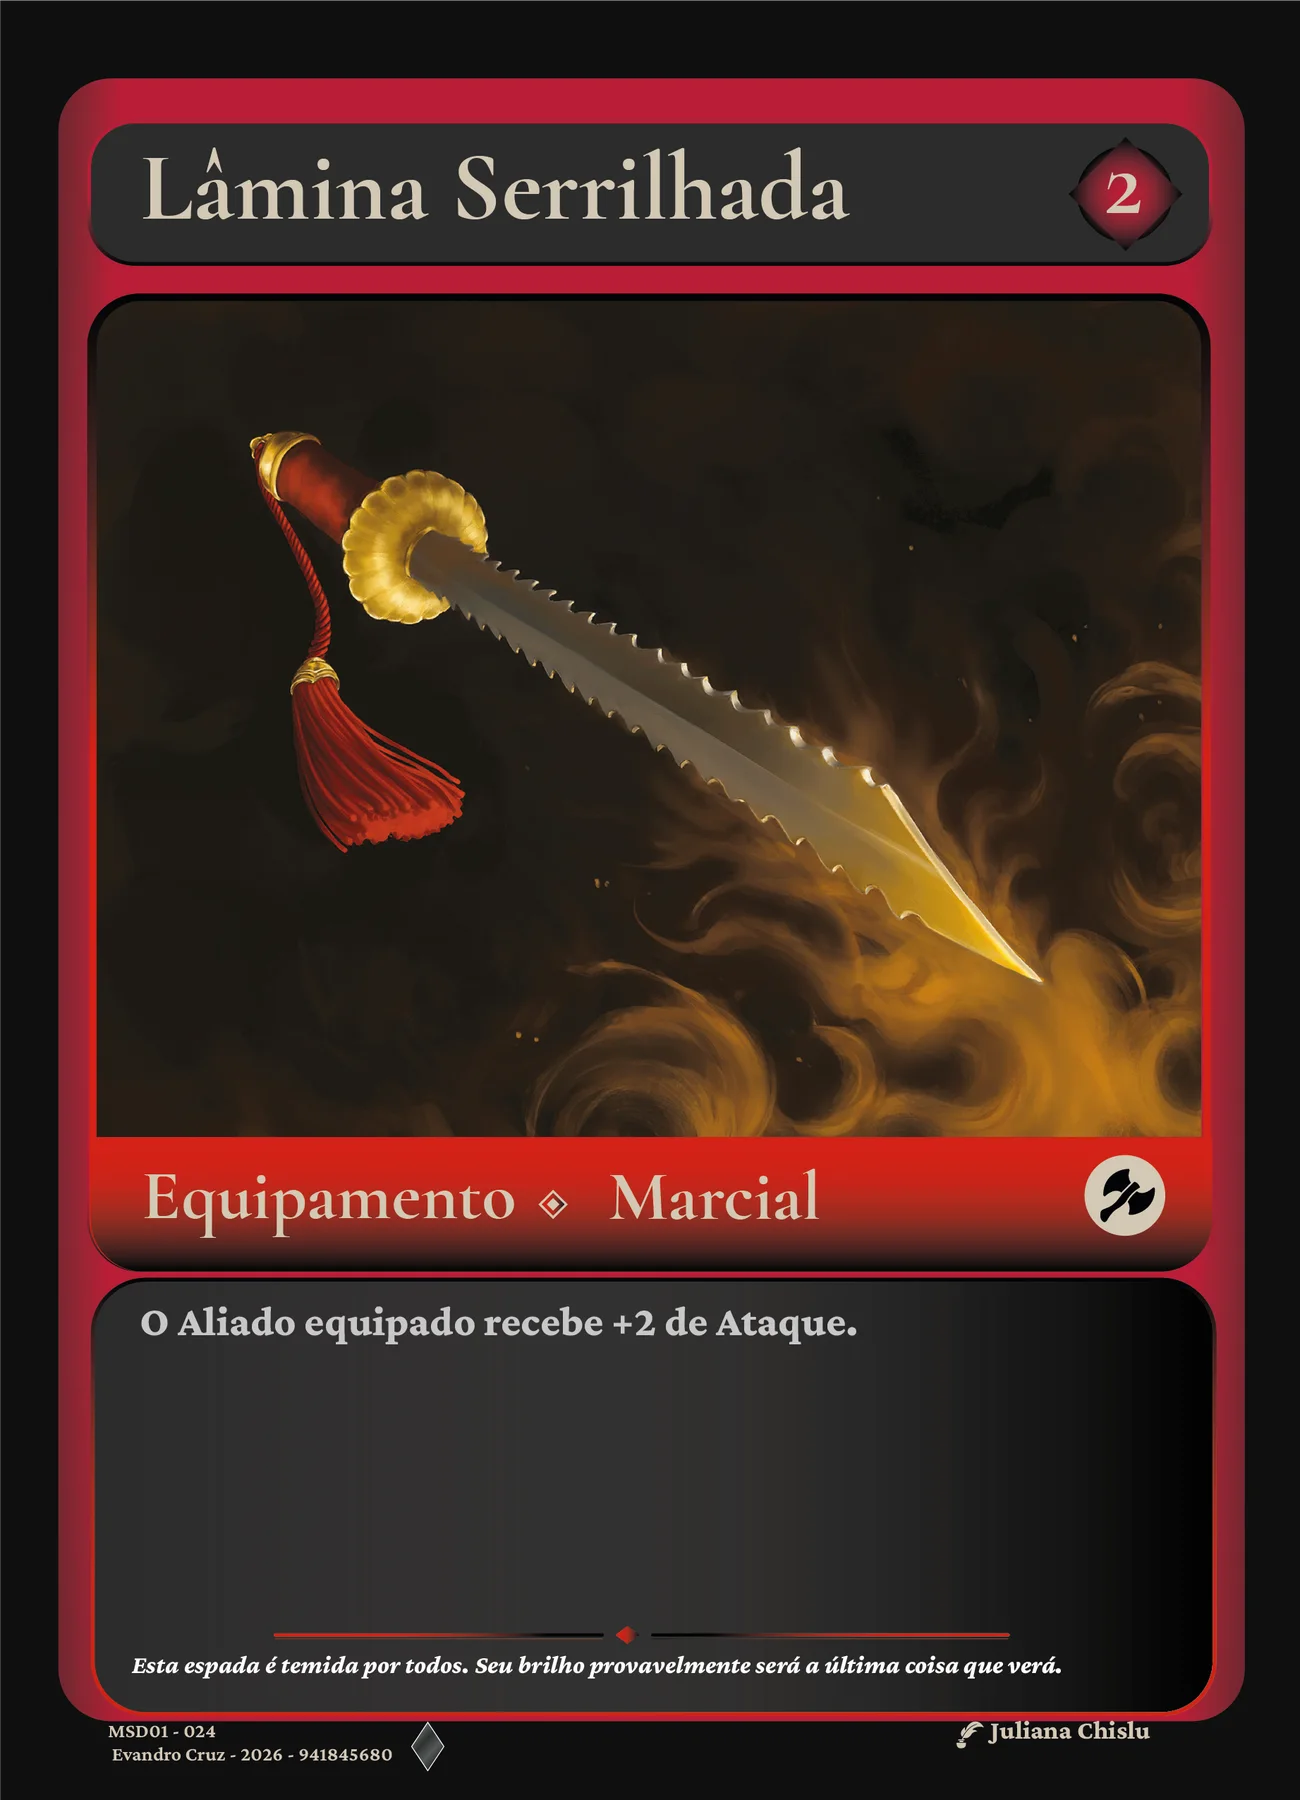
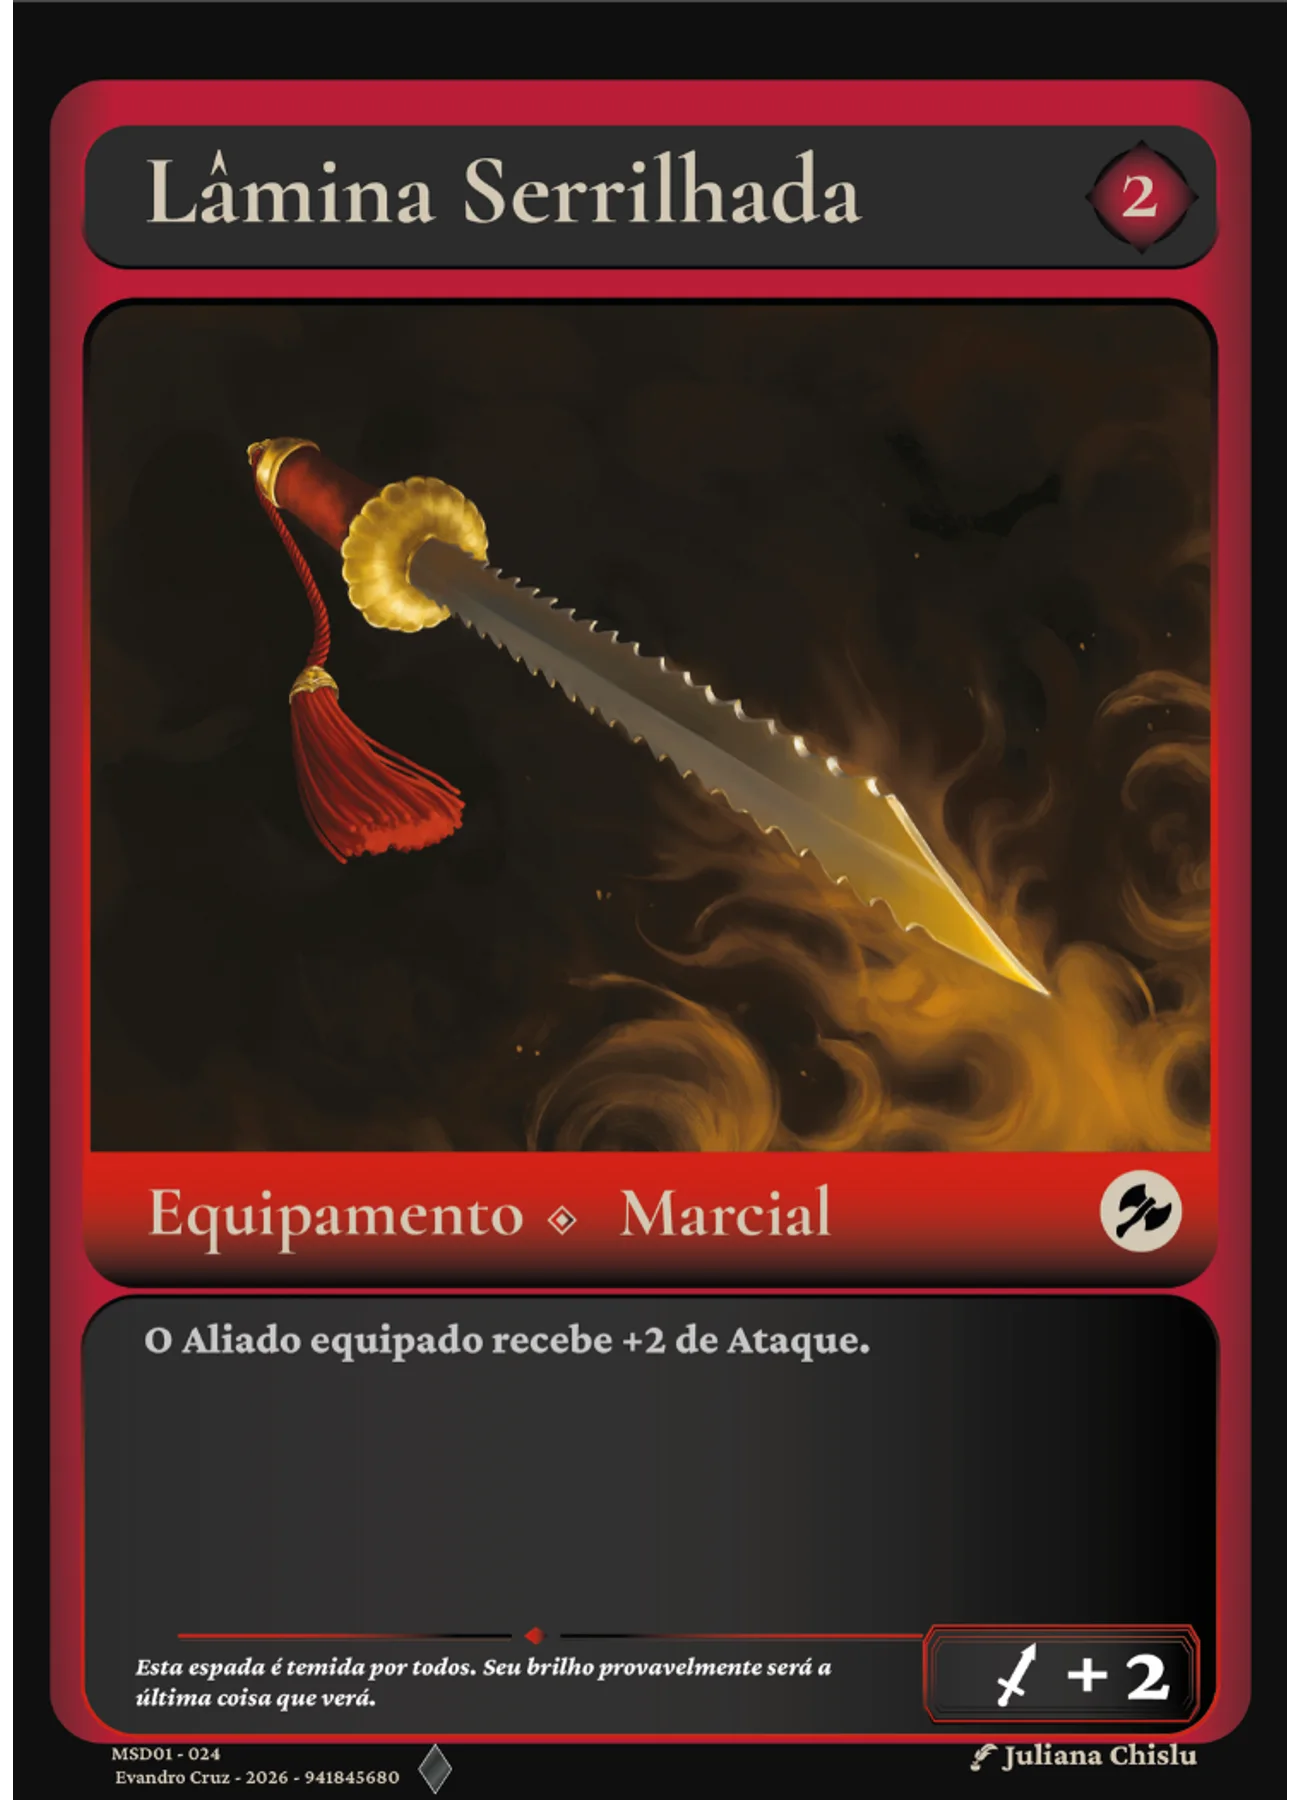
Atualiza layouts e recortes das cartas, ajusta scripts de geração e testes para garantir consistência visual

Changed region(s): [[0.0, 0.0, 1.0, 1.0], [0.1846, 0.2178, 0.4615, 0.4978]]

diff --git a/data/cards.js b/data/cards.js
@@ -88,8 +88,12 @@ const sourceOverrides = {
   mantocouro: 'layout-mantocouro.ai.png',
   mascota: 'layout-aranhasmascote.ai.png'
 };
+const sourceCrops = {
+  redomasanta: { left: 0, top: 0, width: 744, height: 1050 }
+};
 export const cards = entries.map(([id, name, type, affiliation, cost, description = '', token = false]) => ({
   id, name, type, affiliation, cost, description, token,
+  crop: sourceCrops[id],
   image: `/media/cartas/layout-${id}.webp`,
   thumbnail: `/media/cartas/thumbs/layout-${id}.webp`,
   reading: `/media/cartas/leitura/layout-${id}.webp`,

diff --git a/README.md b/README.md
@@ -36,6 +36,7 @@ Também existem tarefas do VS Code **Prévia Mytragor** e **Testar Mytragor**. U
 - `manual/`: PDF, páginas originais e OCR original. A busca usa resumos revisados, não exibe OCR ruidoso como regra.
 - `media/`: derivados WebP para publicação. Devem ser versionados; o site publicado não depende do Node ou do Sharp.
 - As cartas WebP são recortadas pelos limites do canal alpha e enquadradas em 650 × 900, sem esticar a arte. Bordas, textos e créditos são preservados; apenas margens totalmente transparentes são removidas. `scripts/inspect-cards.mjs` permite conferir os limites dos originais.
+- Os seis equipamentos usam os layouts atuais de `cartas.png/`, nas imagens de catálogo, miniaturas e ampliações. A Redoma Santa tem um recorte explícito em `data/cards.js` para remover somente a linha branca inferior, sem alterar o PNG original. Para regenerar apenas esses derivados: `node scripts/update-cards.mjs laminaserrilhada livroarcanoinstavel mantocouro orbeabsorcao Queliceras redomasanta`.
 - `lib/`: componentes da galeria e regras puras de montagem.
 - `scripts/`: geração de imagens e servidor local.
 - `tests/`: testes com executor nativo do Node.
